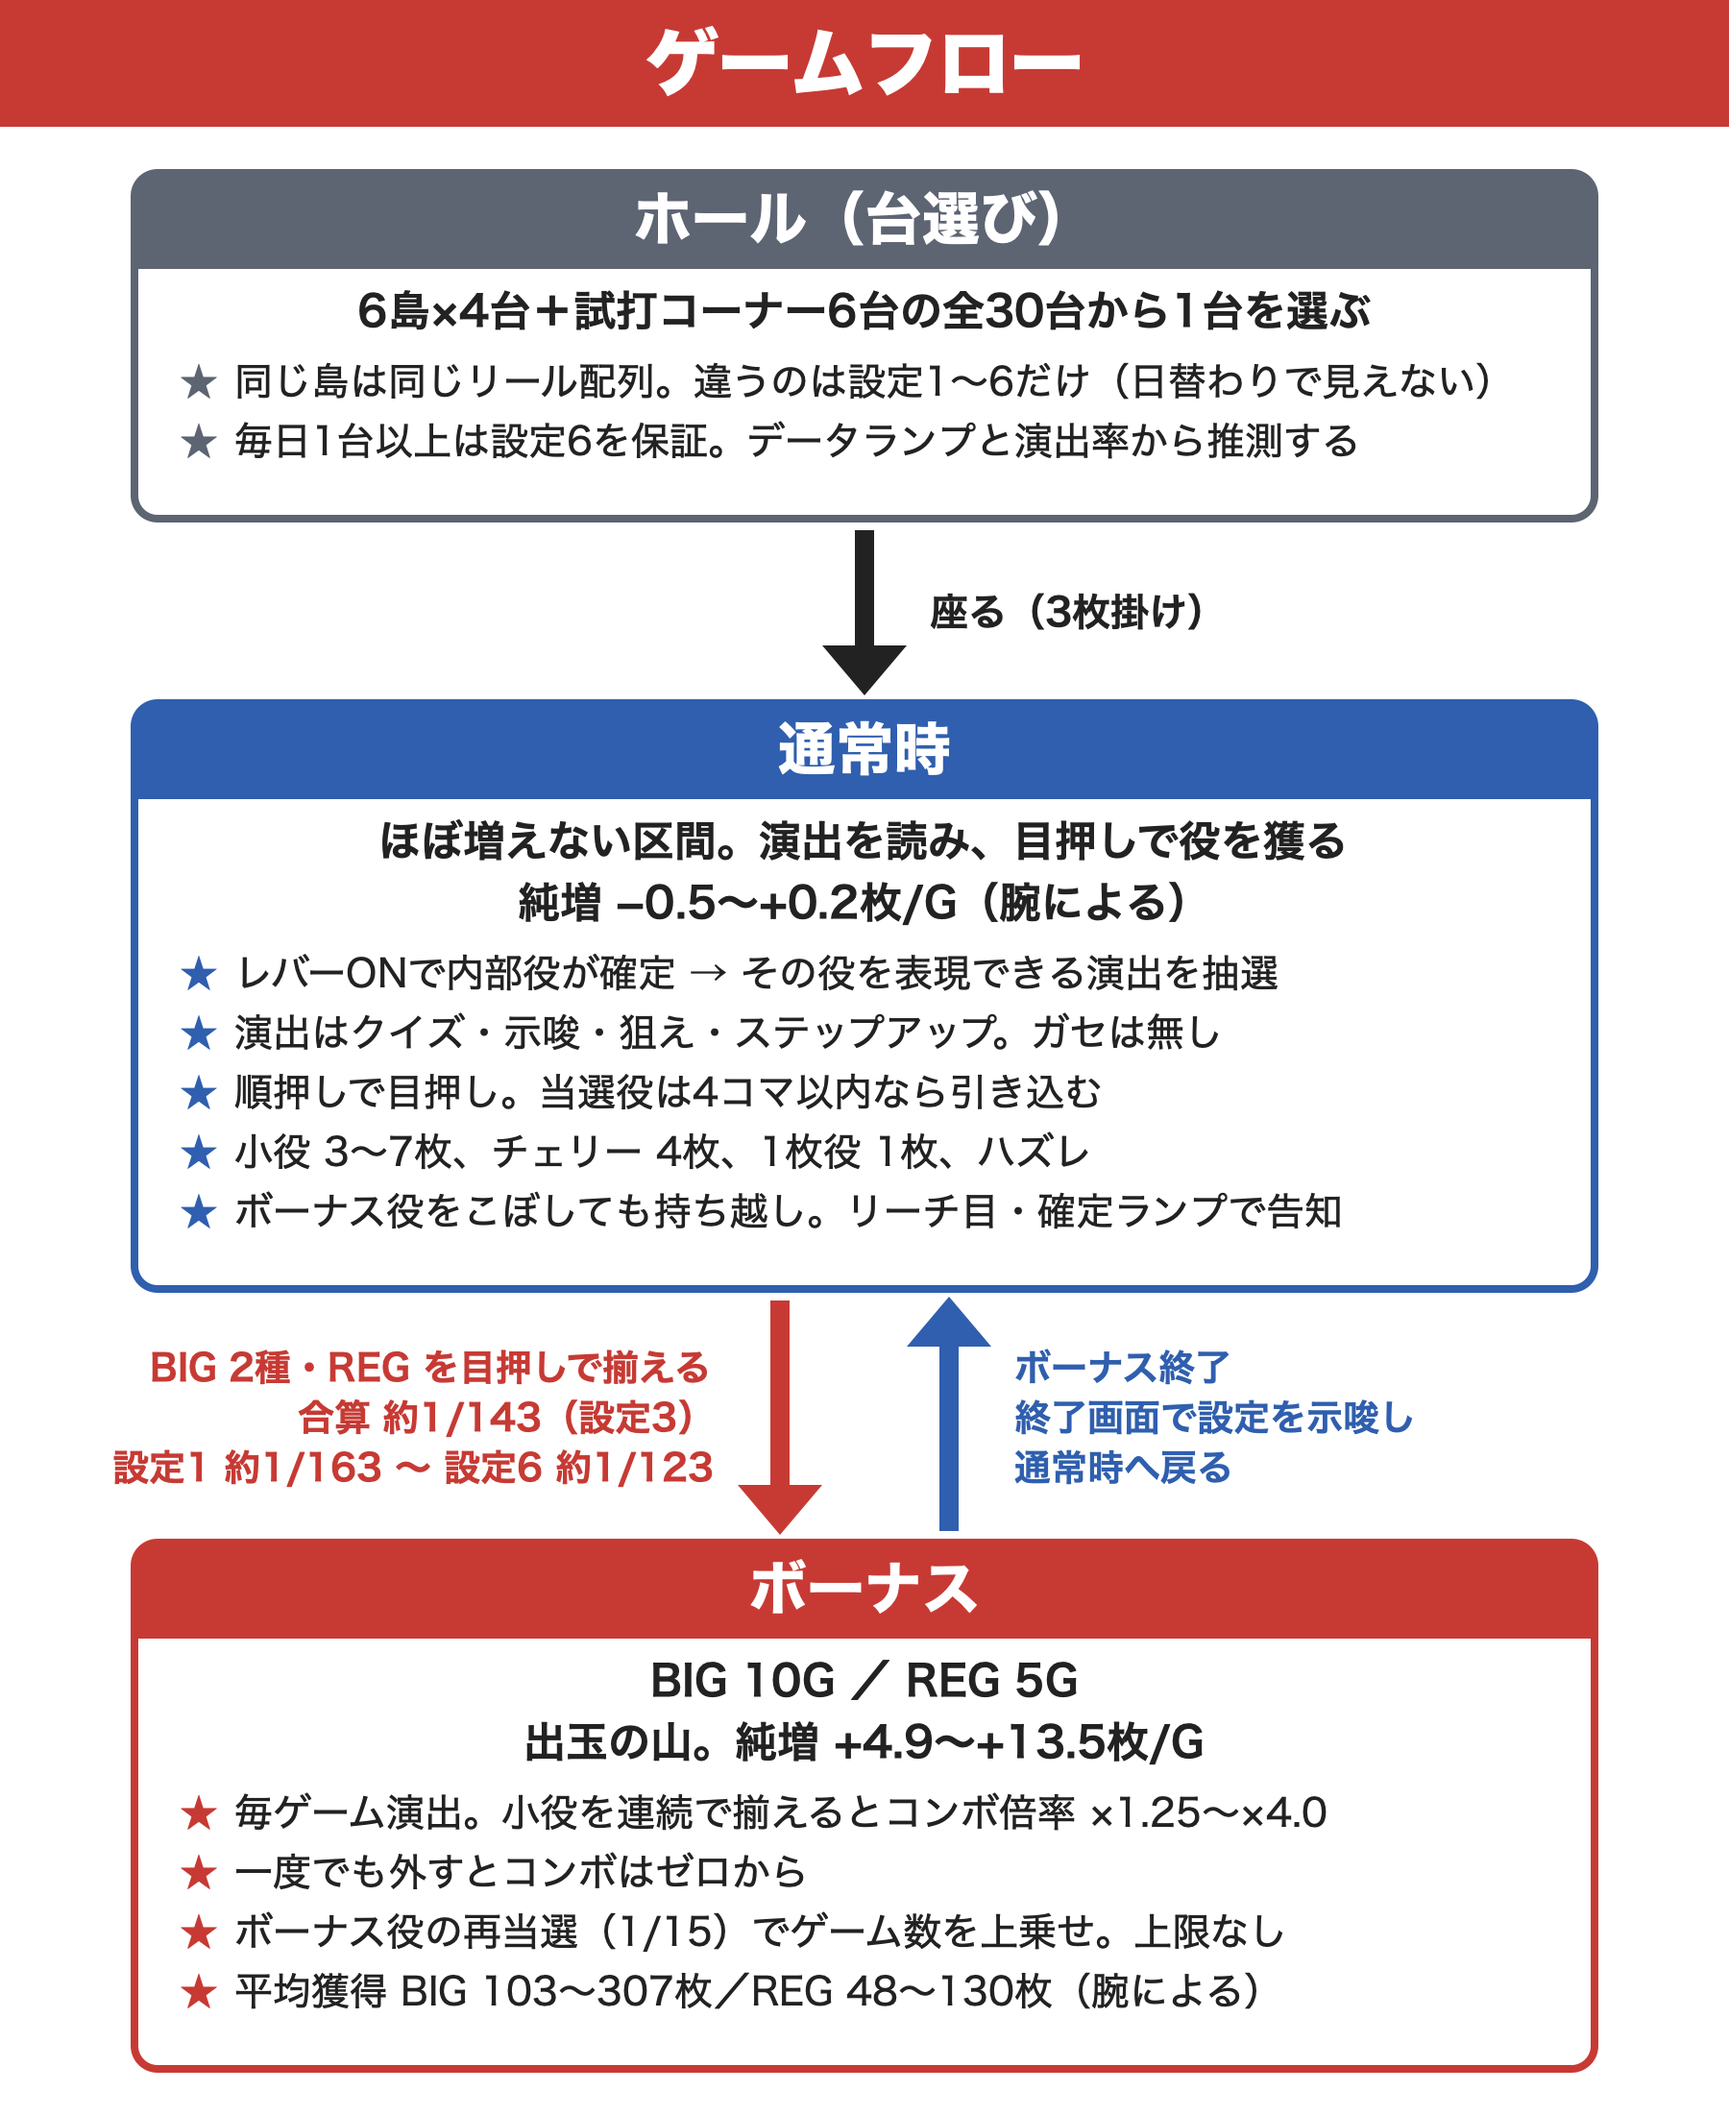
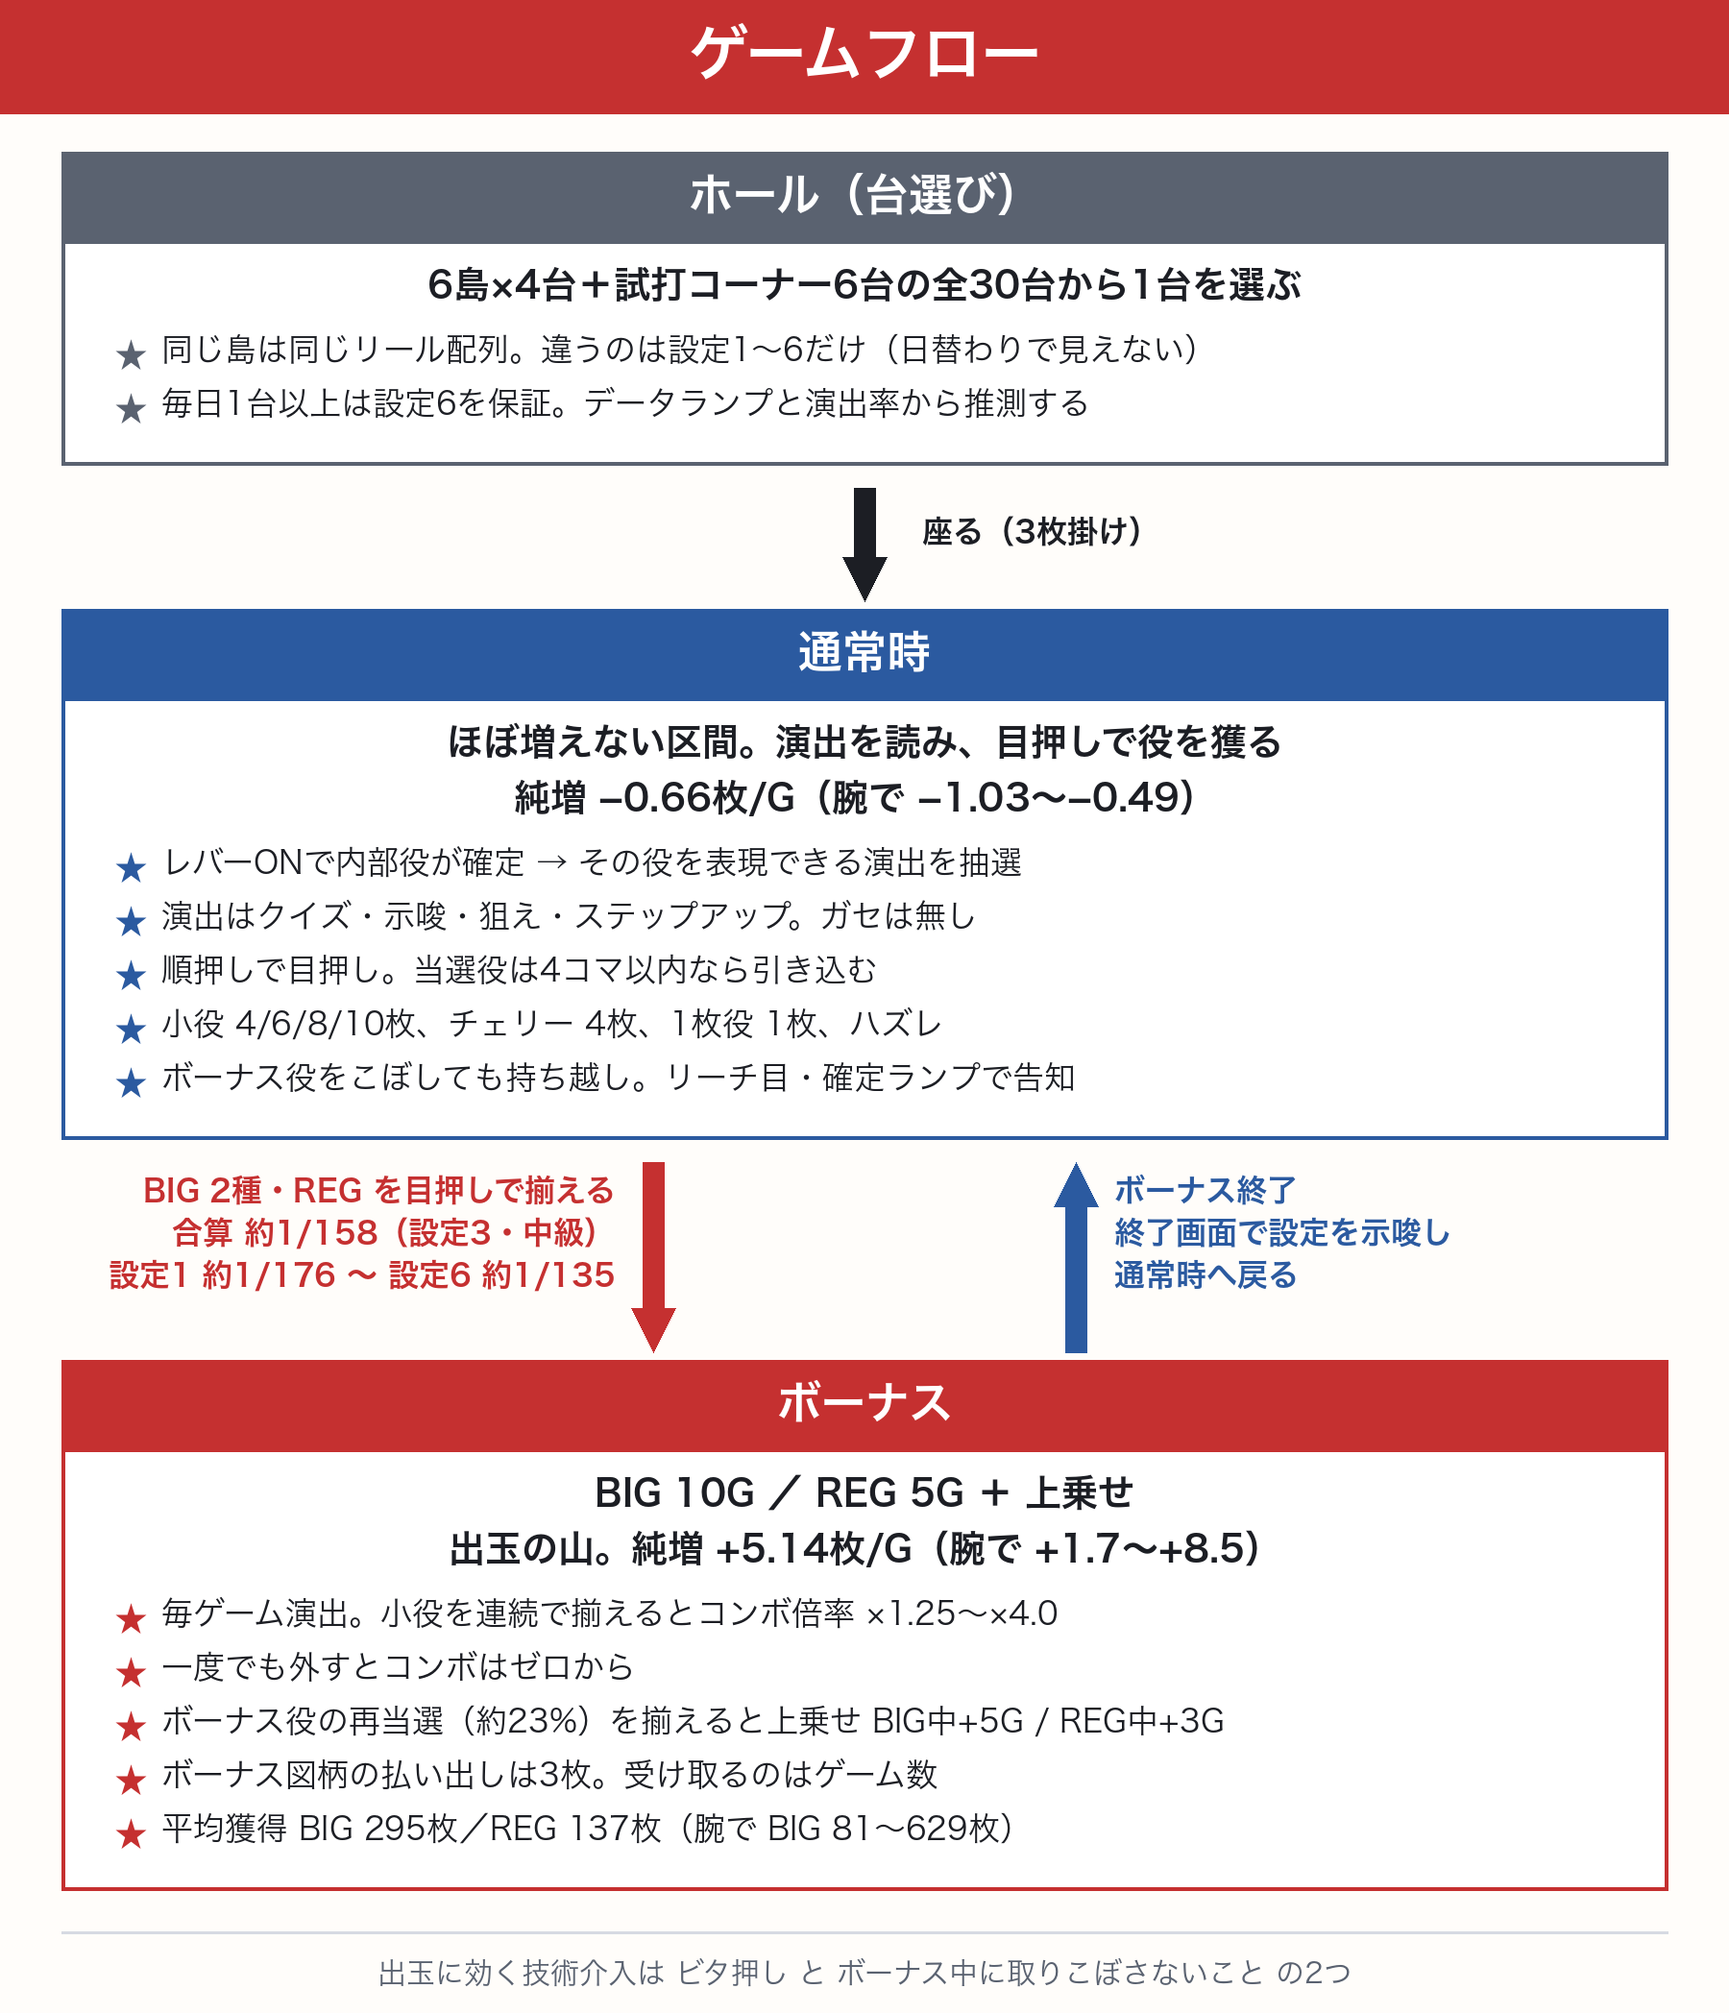
ゲームフロー図を作り直し、生成スクリプトを残す
図の数値が全部古いままだった（純増 −0.5〜+0.2枚/G、小役3〜7枚、合算1/143、
再当選1/15、BIG平均103〜307枚）。**手描きの画像だと出玉を触るたびに置き去りに
なる**ので、`tools/gen_game_flow.py` から生成する形にした。数値を直す場所は
スクリプト内の `SPEC` だけ。

あわせて、狙え・クイズの加算廃止とボーナス図柄3枚化も図に反映した。

Changed region(s): [[0.0, 0.0, 1.0, 0.9924]]

diff --git a/tools/gen_game_flow.py b/tools/gen_game_flow.py
@@ -1,0 +1,196 @@
+#!/usr/bin/env python3
+"""README のゲームフロー図（docs/game-flow.png）を作る。
+
+**数値は動く。** 出玉のバランスを触るたびに図が置き去りになるので、
+手描きの画像ではなくここから生成する形にした（2026-09-13）。
+数値を直す場所は下の `SPEC` だけ。
+
+    python3 tools/gen_game_flow.py
+
+出典は `SIM=1 SPINS=1000000 --reporter=verbose npx vitest run tests/sim/payout-sim.test.ts`
+の実測値と `data/` の設定値。**中級（±50ms）を基準**にし、腕で開く値だけ範囲を添える。
+"""
+
+from __future__ import annotations
+
+from pathlib import Path
+
+from PIL import Image, ImageDraw, ImageFont
+
+ROOT = Path(__file__).resolve().parent.parent
+OUT = ROOT / "docs" / "game-flow.png"
+
+# === 図に載せる数値（ここだけ直す） ===================================
+SPEC = {
+    "hall": [
+        "同じ島は同じリール配列。違うのは設定1〜6だけ（日替わりで見えない）",
+        "毎日1台以上は設定6を保証。データランプと演出率から推測する",
+    ],
+    "normal_lead": "ほぼ増えない区間。演出を読み、目押しで役を獲る",
+    "normal_net": "純増 −0.66枚/G（腕で −1.03〜−0.49）",
+    "normal": [
+        "レバーONで内部役が確定 → その役を表現できる演出を抽選",
+        "演出はクイズ・示唆・狙え・ステップアップ。ガセは無し",
+        "順押しで目押し。当選役は4コマ以内なら引き込む",
+        "小役 4/6/8/10枚、チェリー 4枚、1枚役 1枚、ハズレ",
+        "ボーナス役をこぼしても持ち越し。リーチ目・確定ランプで告知",
+    ],
+    "enter": [
+        "BIG 2種・REG を目押しで揃える",
+        "合算 約1/158（設定3・中級）",
+        "設定1 約1/176 〜 設定6 約1/135",
+    ],
+    "back": ["ボーナス終了", "終了画面で設定を示唆し", "通常時へ戻る"],
+    "bonus_lead": "BIG 10G ／ REG 5G ＋ 上乗せ",
+    "bonus_net": "出玉の山。純増 +5.14枚/G（腕で +1.7〜+8.5）",
+    "bonus": [
+        "毎ゲーム演出。小役を連続で揃えるとコンボ倍率 ×1.25〜×4.0",
+        "一度でも外すとコンボはゼロから",
+        "ボーナス役の再当選（約23%）を揃えると上乗せ BIG中+5G / REG中+3G",
+        "ボーナス図柄の払い出しは3枚。受け取るのはゲーム数",
+        "平均獲得 BIG 295枚／REG 137枚（腕で BIG 81〜629枚）",
+    ],
+    "foot": "出玉に効く技術介入は ビタ押し と ボーナス中に取りこぼさないこと の2つ",
+}
+
+# === 見た目 ==========================================================
+W = 1800
+PAD = 64
+BG = (255, 253, 250)
+RED = (197, 48, 48)
+BLUE = (43, 90, 160)
+GRAY = (90, 98, 112)
+INK = (28, 30, 36)
+CARD = (255, 255, 255)
+LINE = (214, 218, 226)
+
+FONT_DIR = Path("/System/Library/Fonts")
+
+
+def font(weight: str, size: int) -> ImageFont.FreeTypeFont:
+    """ヒラギノ角ゴシックを引く。W6=見出し、W3=本文。"""
+    return ImageFont.truetype(str(FONT_DIR / f"ヒラギノ角ゴシック {weight}.ttc"), size)
+
+
+F_TITLE = font("W6", 62)
+F_HEAD = font("W6", 46)
+F_LEAD = font("W6", 38)
+F_BODY = font("W3", 33)
+F_ARROW = font("W6", 32)
+F_FOOT = font("W3", 30)
+
+
+def text_w(draw: ImageDraw.ImageDraw, s: str, f: ImageFont.FreeTypeFont) -> int:
+    return int(draw.textlength(s, font=f))
+
+
+def centered(draw: ImageDraw.ImageDraw, y: int, s: str, f, fill) -> None:
+    draw.text(((W - text_w(draw, s, f)) / 2, y), s, font=f, fill=fill)
+
+
+def section(
+    draw: ImageDraw.ImageDraw,
+    y: int,
+    title: str,
+    color: tuple[int, int, int],
+    lead: list[str],
+    bullets: list[str],
+) -> int:
+    """見出し帯＋白いカード。返り値は次に描き始める y。"""
+    x0, x1 = PAD, W - PAD
+    head_h = 92
+    body_h = 40 + len(lead) * 58 + len(bullets) * 56 + 24
+
+    draw.rectangle([x0, y, x1, y + head_h], fill=color)
+    centered(draw, y + 20, title, F_HEAD, CARD)
+
+    top = y + head_h
+    draw.rectangle([x0, top, x1, top + body_h], fill=CARD, outline=color, width=4)
+
+    ty = top + 26
+    for s in lead:
+        centered(draw, ty, s, F_LEAD, INK)
+        ty += 58
+    ty += 12
+    for s in bullets:
+        draw.text((x0 + 56, ty + 6), "★", font=F_BODY, fill=color)
+        draw.text((x0 + 104, ty), s, font=F_BODY, fill=INK)
+        ty += 56
+
+    return top + body_h
+
+
+def arrow_down(draw: ImageDraw.ImageDraw, cx: int, y0: int, y1: int, color) -> None:
+    """下向きの太い矢印。"""
+    shaft = 22
+    head = 46
+    draw.rectangle([cx - shaft // 2, y0, cx + shaft // 2, y1 - head], fill=color)
+    draw.polygon(
+        [(cx - head // 2, y1 - head), (cx + head // 2, y1 - head), (cx, y1)],
+        fill=color,
+    )
+
+
+def arrow_up(draw: ImageDraw.ImageDraw, cx: int, y0: int, y1: int, color) -> None:
+    """上向き（ボーナス終了 → 通常時）。"""
+    shaft = 22
+    head = 46
+    draw.rectangle([cx - shaft // 2, y0 + head, cx + shaft // 2, y1], fill=color)
+    draw.polygon(
+        [(cx - head // 2, y0 + head), (cx + head // 2, y0 + head), (cx, y0)],
+        fill=color,
+    )
+
+
+def main() -> None:
+    # 高さは仮に大きく取って、描き終えてから切り詰める。
+    img = Image.new("RGB", (W, 2600), BG)
+    draw = ImageDraw.Draw(img)
+
+    draw.rectangle([0, 0, W, 118], fill=RED)
+    centered(draw, 24, "ゲームフロー", F_TITLE, CARD)
+
+    y = 158
+    y = section(draw, y, "ホール（台選び）", GRAY,
+                ["6島×4台＋試打コーナー6台の全30台から1台を選ぶ"], SPEC["hall"])
+
+    # ホール → 通常時
+    gap = 150
+    arrow_down(draw, W // 2, y + 24, y + gap - 8, INK)
+    draw.text((W // 2 + 60, y + 52), "座る（3枚掛け）", font=F_ARROW, fill=INK)
+    y += gap
+
+    y = section(draw, y, "通常時", BLUE,
+                [SPEC["normal_lead"], SPEC["normal_net"]], SPEC["normal"])
+
+    # 通常時 ⇄ ボーナス。左が突入（赤・下向き）、右が終了（青・上向き）。
+    gap = 230
+    lx, rx = W // 2 - 220, W // 2 + 220
+    arrow_down(draw, lx, y + 24, y + gap - 8, RED)
+    arrow_up(draw, rx, y + 24, y + gap - 8, BLUE)
+
+    ty = y + 36
+    for s in SPEC["enter"]:
+        draw.text((lx - 40 - text_w(draw, s, F_ARROW), ty), s, font=F_ARROW, fill=RED)
+        ty += 44
+    ty = y + 36
+    for s in SPEC["back"]:
+        draw.text((rx + 40, ty), s, font=F_ARROW, fill=BLUE)
+        ty += 44
+    y += gap
+
+    y = section(draw, y, "ボーナス", RED,
+                [SPEC["bonus_lead"], SPEC["bonus_net"]], SPEC["bonus"])
+
+    y += 44
+    draw.line([PAD, y, W - PAD, y], fill=LINE, width=3)
+    y += 26
+    centered(draw, y, SPEC["foot"], F_FOOT, GRAY)
+    y += 58
+
+    img.crop((0, 0, W, y)).save(OUT)
+    print(f"{OUT.relative_to(ROOT)} ({W}x{y})")
+
+
+if __name__ == "__main__":
+    main()

diff --git a/README.md b/README.md
@@ -49,7 +49,9 @@
 
 ## ゲームフロー
 
-<img src="docs/game-flow.png" width="560" alt="ゲームフロー。ホールで台を選び、通常時に演出を読んで目押しし、BIG/REGを揃えてボーナスへ。ボーナス中はコンボと上乗せで出玉を積み、終了後は通常時へ戻る">
+<img src="docs/game-flow.png" width="560" alt="ゲームフロー。ホールで台を選び、通常時に演出を読んで目押しし、BIG/REGを揃えてボーナスへ。ボーナス中はコンボを繋ぎ、再当選を揃えてゲーム数を上乗せする。終了後は通常時へ戻る">
+
+> 図は `python3 tools/gen_game_flow.py` で生成する。**数値を直す場所はスクリプト内の `SPEC` だけ。**
 
 ```
 レバーON → 内部役を抽選（実機のフラグ）→ その役を表現できる演出を抽選
